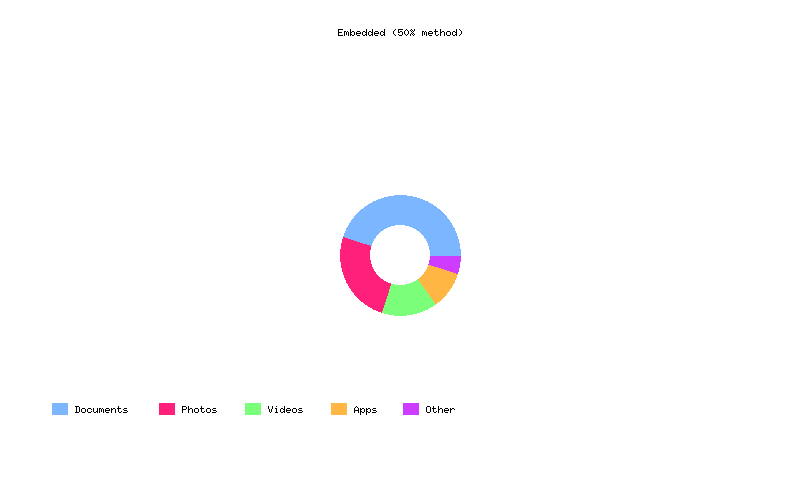
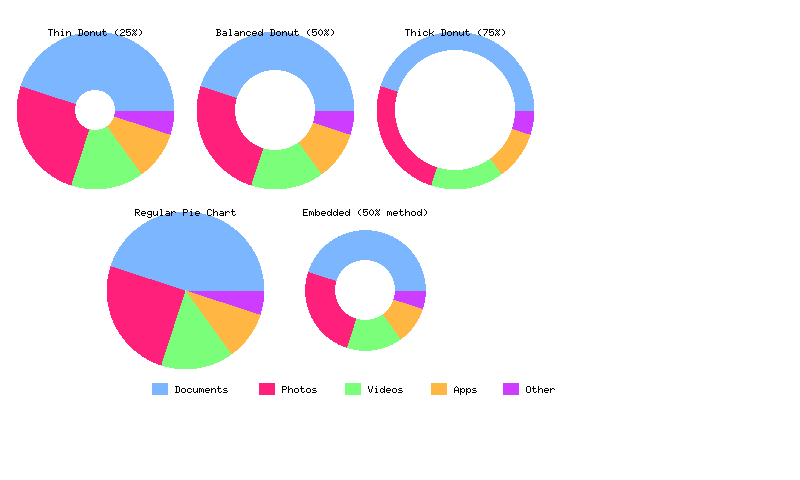
fix: improve donut chart example layout and CI coverage
• Fix donut chart example to show all 5 charts properly
  - Create separate viewports for each chart type
  - Arrange in 2 rows: donut variations (top) and comparisons (bottom)
  - Update legend positioning for better layout
  - Now clearly shows thin, balanced, thick donuts vs pie chart

• Add comprehensive donut chart CI testing
  - Added "std,pie,donut" feature combination for desktop testing
  - Added "no_std,pie,fixed-point" for embedded donut chart testing
  - Ensures donut chart functionality is validated in CI pipeline

• Update screenshot with improved multi-chart layout
  - Shows all donut chart variations side by side
  - Demonstrates visual differences between thin/balanced/thick donuts
  - Includes comparison with regular pie chart

The example now properly showcases:
- Thin donut (25% inner radius)
- Balanced donut (50% inner radius)
- Thick donut (75% inner radius)
- Regular pie chart (for comparison)
- Embedded-optimized donut (percentage method)

🤖 Generated with [Claude Code](https://claude.ai/code)

diff --git a/examples/basic/donut_chart.rs b/examples/basic/donut_chart.rs
@@ -130,18 +130,30 @@ fn main() -> ChartResult<()> {
             .theme(common::WindowTheme::Default)
             .background(Rgb565::WHITE)
             .size(Size::new(800, 480)), // Larger window to show multiple charts
-        move |display, viewport| {
-            // Draw all charts in the same viewport
-            thin_donut.draw(&series, thin_donut.config(), viewport, display)?;
-            balanced_donut.draw(&series, balanced_donut.config(), viewport, display)?;
-            thick_donut.draw(&series, thick_donut.config(), viewport, display)?;
-            pie_chart.draw(&series, pie_chart.config(), viewport, display)?;
-            embedded_donut.draw(&series, embedded_donut.config(), viewport, display)?;
+        move |display, _viewport| {
+            // Create separate viewports for each chart
+            let chart_size = Size::new(150, 150);
+            
+            // Top row - donut chart variations
+            let thin_viewport = Rectangle::new(Point::new(20, 20), chart_size);
+            let balanced_viewport = Rectangle::new(Point::new(200, 20), chart_size);
+            let thick_viewport = Rectangle::new(Point::new(380, 20), chart_size);
+            
+            // Bottom row - comparison charts
+            let pie_viewport = Rectangle::new(Point::new(110, 200), chart_size);
+            let embedded_viewport = Rectangle::new(Point::new(290, 200), chart_size);
+            
+            // Draw each chart in its own viewport
+            thin_donut.draw(&series, thin_donut.config(), thin_viewport, display)?;
+            balanced_donut.draw(&series, balanced_donut.config(), balanced_viewport, display)?;
+            thick_donut.draw(&series, thick_donut.config(), thick_viewport, display)?;
+            pie_chart.draw(&series, pie_chart.config(), pie_viewport, display)?;
+            embedded_donut.draw(&series, embedded_donut.config(), embedded_viewport, display)?;
 
-            // Draw legend at the bottom
+            // Draw legend at the bottom center
             let legend_area = Rectangle::new(
-                Point::new(50, 400),
-                Size::new(700, 60)
+                Point::new(150, 380),
+                Size::new(500, 60)
             );
             renderer.render(&legend, legend_area, display)?;
 
